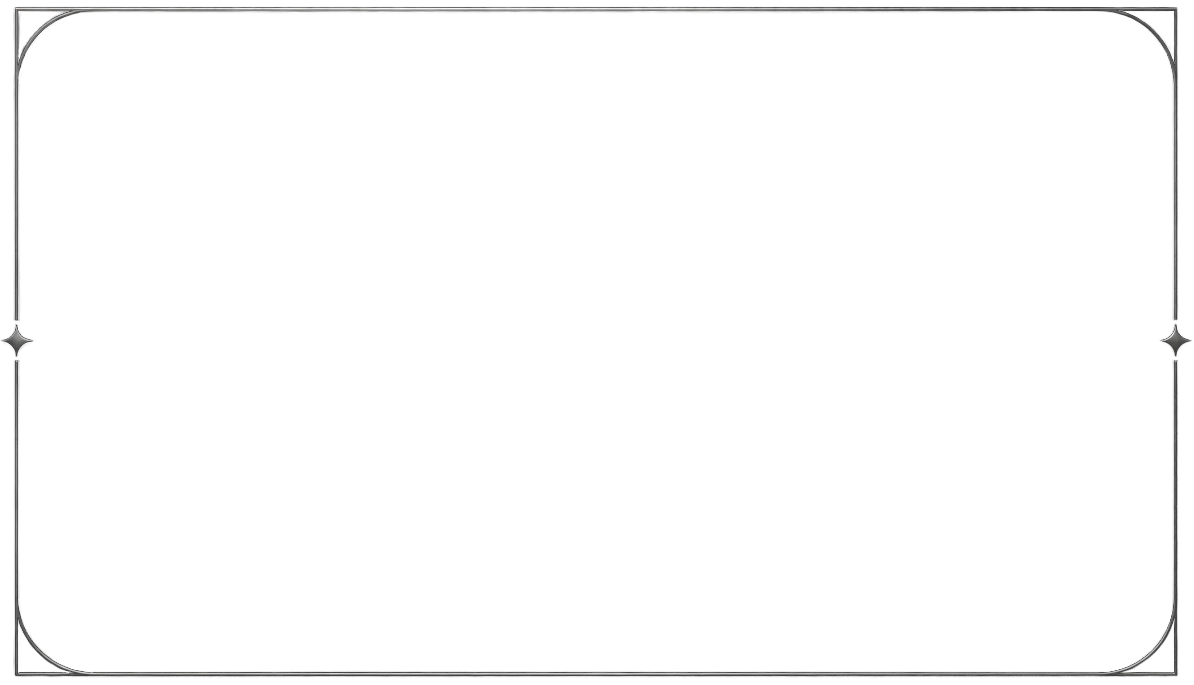
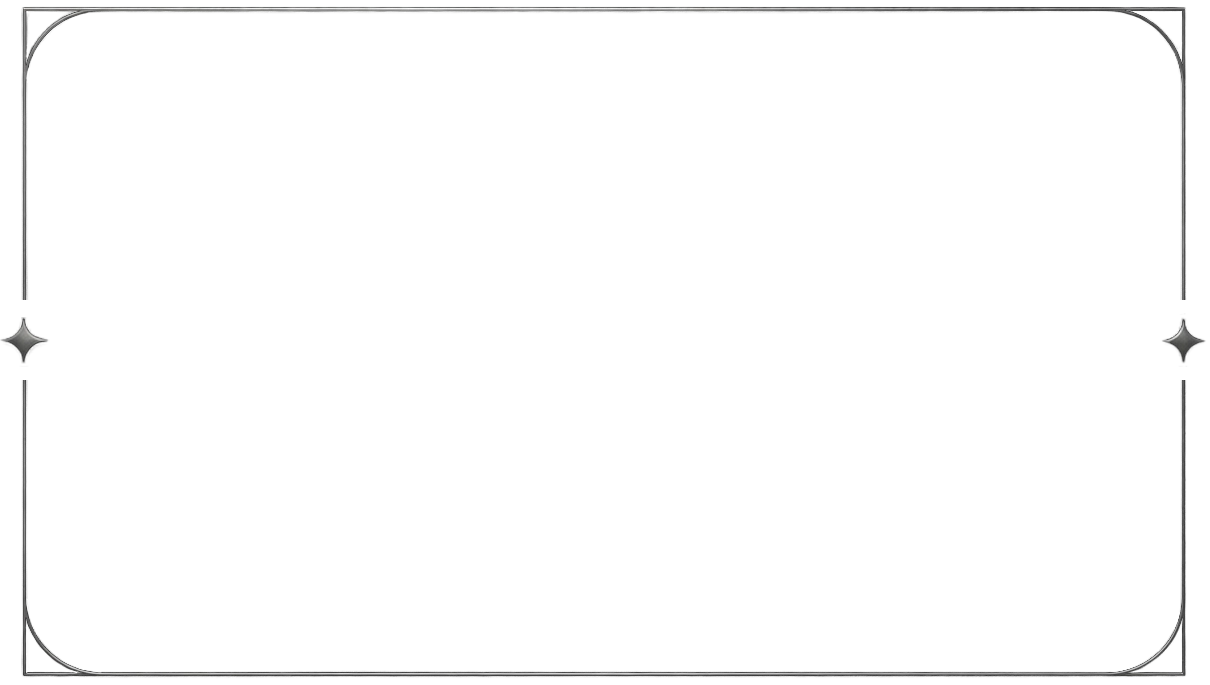
fix: refine concept video frame sizing

Changed region(s): [[0.0, 0.0, 0.062, 1.0], [0.9296, 0.0, 1.0, 0.981]]

diff --git a/css/style.css b/css/style.css
@@ -2034,7 +2034,7 @@ body.is-loading .hero-scroll-cue,
 
 .concept__video-media {
     position: relative;
-    width: 93%;
+    width: 93.5%;
     height: auto;
     aspect-ratio: 16 / 9;
     overflow: hidden;
